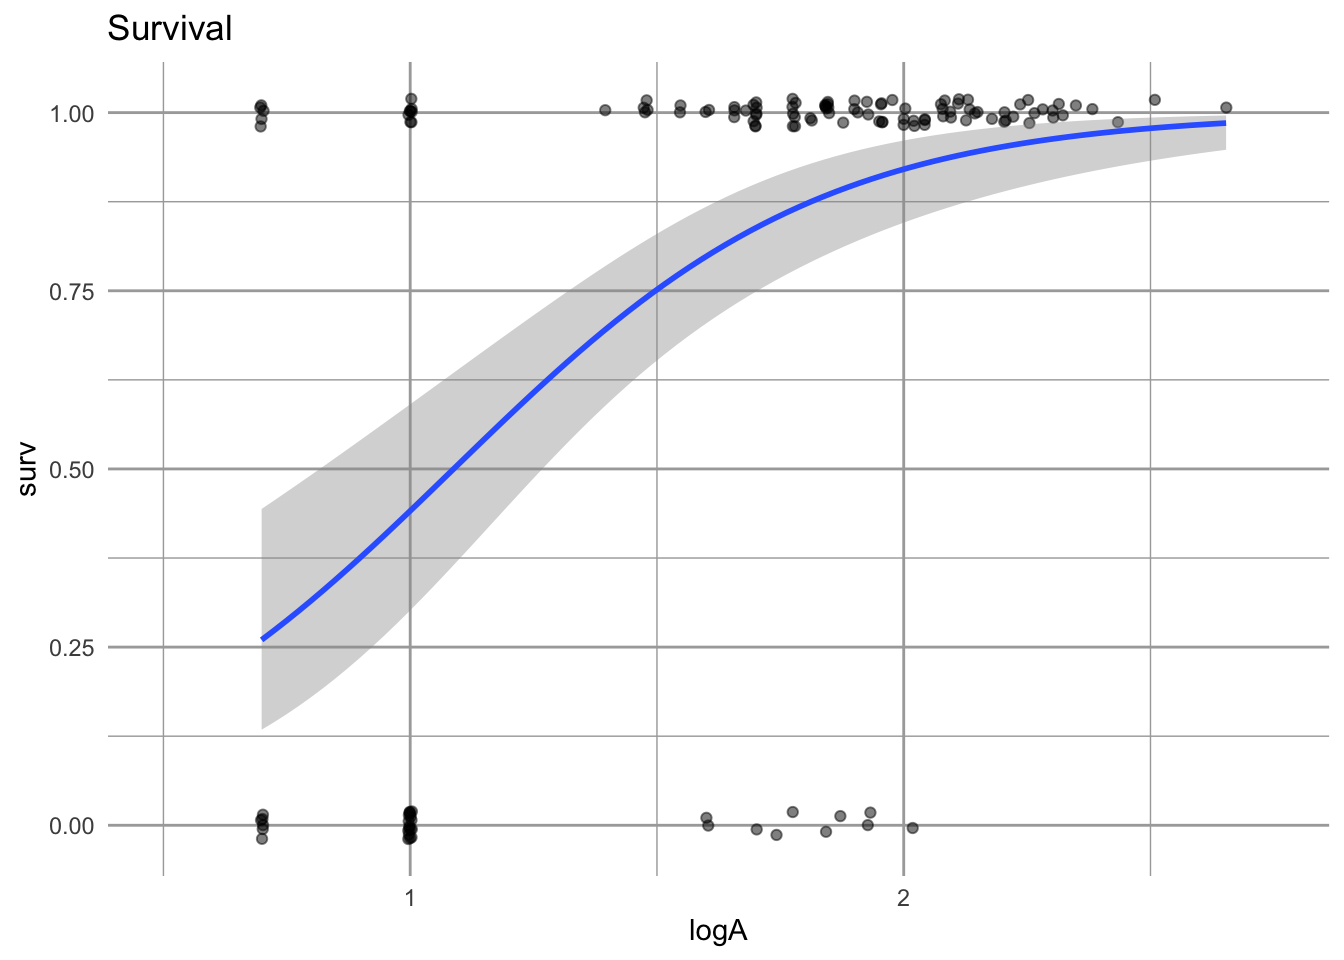
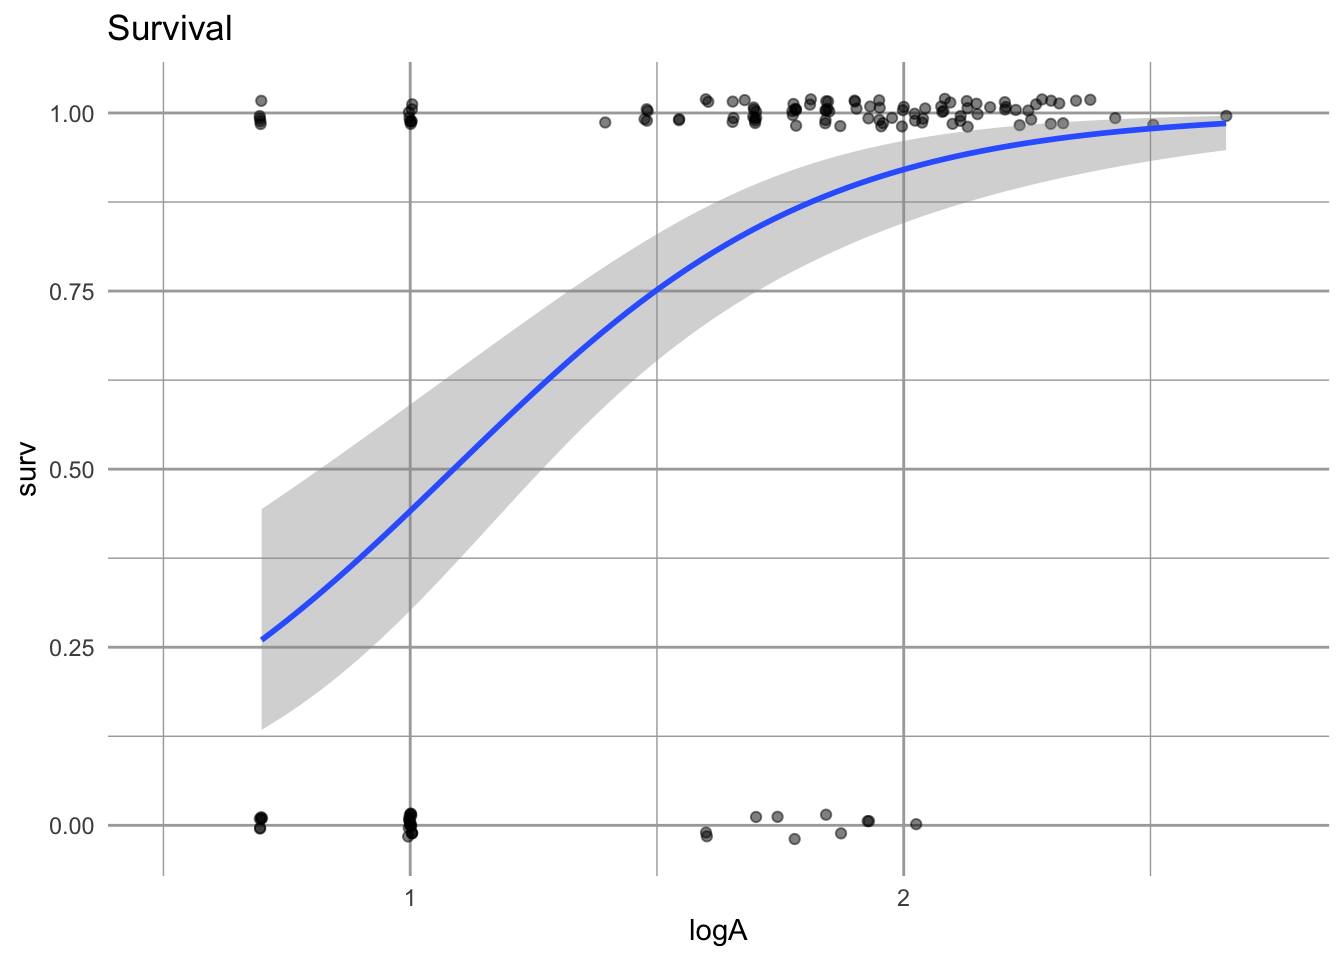
Publish: 04-DIDemography.qmd

diff --git a/docs/index.html b/docs/index.html
@@ -7,7 +7,7 @@
 <meta name="viewport" content="width=device-width, initial-scale=1.0, user-scalable=yes">
 
 <meta name="author" content="Hank Stevens">
-<meta name="dcterms.date" content="2026-08-31">
+<meta name="dcterms.date" content="2026-09-01">
 <meta name="description" content="A primer of R and of population and community ecology.">
 
 <title>Primer of Ecology</title>
@@ -246,7 +246,7 @@ ul.task-list li input[type="checkbox"] {
     <div>
     <div class="quarto-title-meta-heading">Published</div>
     <div class="quarto-title-meta-contents">
-      <p class="date">August 31, 2026</p>
+      <p class="date">September 1, 2026</p>
     </div>
   </div>
   

diff --git a/docs/04-DIDemography.html b/docs/04-DIDemography.html
@@ -398,7 +398,7 @@ Figure&nbsp;5.2: Like all amphibians, the Western toad (<em>Anaxyrus boreas</em>
 <div class="cell-output-display">
 <div>
 <figure class="figure">
-<p><img src="figs/vdlc2.JPG" class="img-fluid figure-img" width="1473"></p>
+<p><img src="figs/vdlc2.jpg" class="img-fluid figure-img" width="1473"></p>
 </figure>
 </div>
 </div>
